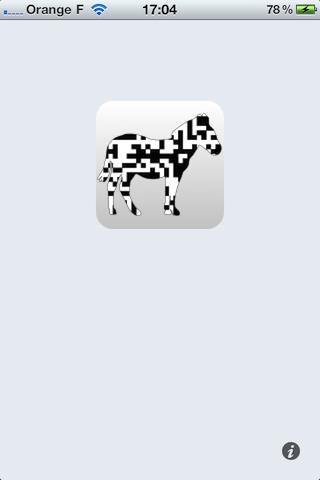
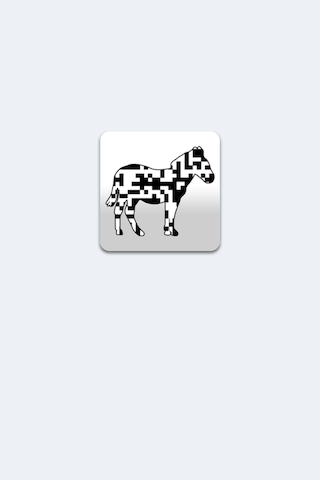
[iphone/barcodes] added possibility to trigger action of last result on splash screen. Default screen is now aligned with current splash screen UI
git-svn-id: http://zxing.googlecode.com/svn/trunk@1671 59b500cc-1b3d-0410-9834-0bbf25fbcc57

Changed region(s): [[0.2812, 0.2188, 0.7188, 0.5312], [0.0, 0.0, 1.0, 0.0625], [0.875, 0.9062, 0.9375, 0.9688]]

diff --git a/Barcodes/Classes/ZXMainViewController.mm b/Barcodes/Classes/ZXMainViewController.mm
@@ -15,10 +15,10 @@
 #import "Database.h"
 
 @implementation ZXMainViewController
-//@synthesize resultParser;
 @synthesize actions;
 @synthesize result;
 @synthesize resultView;
+@synthesize lastActionButton;
 
 // The designated initializer.  Override if you create the controller programmatically and want to perform customization that is not appropriate for viewDidLoad.
 /*
@@ -35,12 +35,10 @@
 // Implement viewDidLoad to do additional setup after loading the view, typically from a nib.
 - (void)viewDidLoad {
   [super viewDidLoad];
-  //UniversalResultParser *parser = [[UniversalResultParser alloc] initWithDefaultParsers];
-  //self.resultParser = parser;
-//  [parser release];
   NSString *rawLatestResult = [[NSUserDefaults standardUserDefaults] objectForKey:@"lastScan"];
   if (!rawLatestResult) rawLatestResult = NSLocalizedString(@"MainViewLatestResultDefault",@"Last result will appear here once you have scanned a barcode at least once");
   [self setResultViewWithText:rawLatestResult];
+  
 }
 
 
@@ -53,7 +51,6 @@
 */
 
 - (IBAction)scan:(id)sender {
-	
   ZXingWidgetController *widController = [[ZXingWidgetController alloc] initWithDelegate:self showCancel:YES OneDMode:NO];
   QRCodeReader* qrcodeReader = [[QRCodeReader alloc] init];
   NSSet *readers = [[NSSet alloc ] initWithObjects:qrcodeReader,nil];
@@ -96,49 +93,73 @@
   [archiveController release];
 }
 
+- (IBAction)lastResultAction:(id)sender {
+  [self performResultAction];
+}
+
+
+- (void)performAction:(ResultAction *)action {
+  [action performActionWithController:self shouldConfirm:NO];
+}
+
 - (void)modalViewControllerWantsToBeDismissed:(UIViewController *)controller {
   [self dismissModalViewControllerAnimated:YES];
 }
 
 - (void)didReceiveMemoryWarning {
-    // Releases the view if it doesn't have a superview.
-    [super didReceiveMemoryWarning];
-    
-    // Release any cached data, images, etc. that aren't in use.
+  // Releases the view if it doesn't have a superview.
+  [super didReceiveMemoryWarning];
+  // Release any cached data, images, etc. that aren't in use.
 }
 
 - (void)viewDidUnload {
-    [super viewDidUnload];
-    // Release any retained subviews of the main view.
-    // e.g. self.myOutlet = nil;
+  [super viewDidUnload];
+  // Release any retained subviews of the main view.
+  // e.g. self.myOutlet = nil;
 }
 
 
 - (void)dealloc {
   [resultView release];
+  [lastActionButton release];
   actions = nil;
   result = nil;
   [super dealloc];
 }
 
-
 - (void)setResultViewWithText:(NSString*)theResult {
   ParsedResult *parsedResult = [[UniversalResultParser parsedResultForString:theResult] retain];
   NSString *displayString = [parsedResult stringForDisplay];
-  self.resultView.text = displayString; 
+  self.resultView.text = displayString;
+  self.result = [parsedResult retain];
+  self.actions = [[parsedResult actions] retain];
+  NSString *buttonTitle;
+  if ([self.actions count] == 1) {
+    ResultAction *theAction = [self.actions objectAtIndex:0];
+    buttonTitle = [theAction title];
+    lastActionButton.userInteractionEnabled = YES;
+  } else if ([self.actions count] == 0) {
+    lastActionButton.userInteractionEnabled = NO;
+    buttonTitle = @"No Actions";
+  } else {
+    
+    lastActionButton.userInteractionEnabled = YES;
+    buttonTitle = @"Actions ...";
+  }
+  [lastActionButton setTitle:buttonTitle forState: UIControlStateNormal];
 }
 
 #pragma mark -
 #pragma mark ZXingDelegateMethods
 - (void)zxingController:(ZXingWidgetController*)controller didScanResult:(NSString *)resultString {
   [self dismissModalViewControllerAnimated:YES];
-  ParsedResult *theResult = [UniversalResultParser parsedResultForString:resultString];
-  self.result = [theResult retain];
-  self.actions = [self.result.actions retain];
+  //ParsedResult *theResult = [UniversalResultParser parsedResultForString:resultString];
+  //self.result = [theResult retain];
+  //self.actions = [self.result.actions retain];
+  [self setResultViewWithText:resultString];
 #ifdef DEBUG  
   NSLog(@"result has %d actions", actions ? 0 : actions.count);
 #endif
-  [self setResultViewWithText:resultString];
   [[Database sharedDatabase] addScanWithText:resultString];
   [[NSUserDefaults standardUserDefaults] setObject:resultString forKey:@"lastScan"];
   [self performResultAction];

diff --git a/Barcodes/Classes/ZXMainViewController.h b/Barcodes/Classes/ZXMainViewController.h
@@ -13,21 +13,25 @@
 
 @class UniversalResultParser;
 @class ParsedResult;
+@class ResultAction;
 
 
 @interface ZXMainViewController : UIViewController <ZXingDelegate,UIActionSheetDelegate,ModalViewControllerDelegate> {
   NSArray *actions;
   ParsedResult *result;
   IBOutlet UITextView *resultView;
+  IBOutlet UIButton *lastActionButton;
 }
 
 @property (nonatomic,assign) NSArray *actions;
 @property (nonatomic,assign) ParsedResult *result;
 @property (nonatomic,retain) IBOutlet UITextView *resultView;
+@property (nonatomic,retain) IBOutlet UIButton *lastActionButton;
 
 - (IBAction)scan:(id)sender;
 - (IBAction)info:(id)sender;
 - (IBAction)showArchive:(id)sender;
+- (IBAction)lastResultAction:(id)sender;
 
 - (void)zxingController:(ZXingWidgetController*)controller didScanResult:(NSString *)result;
 - (void)zxingControllerDidCancel:(ZXingWidgetController*)controller;
